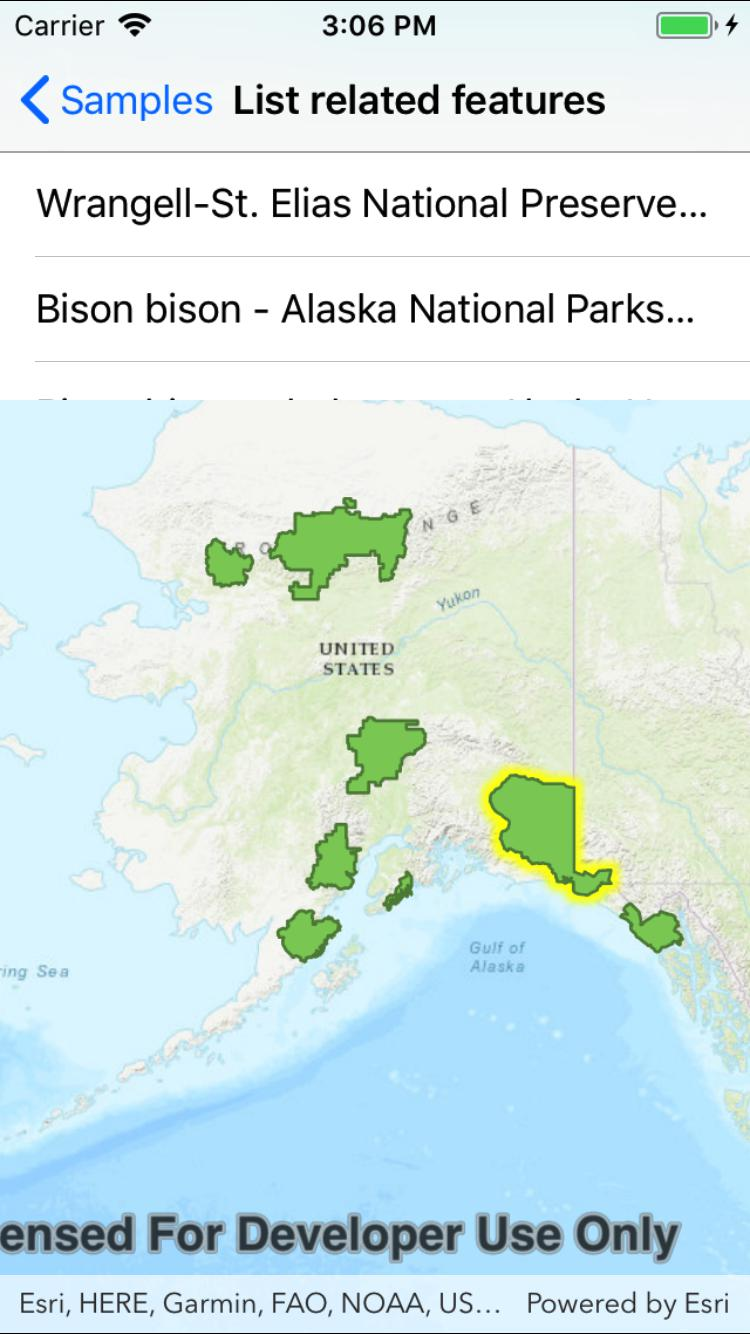
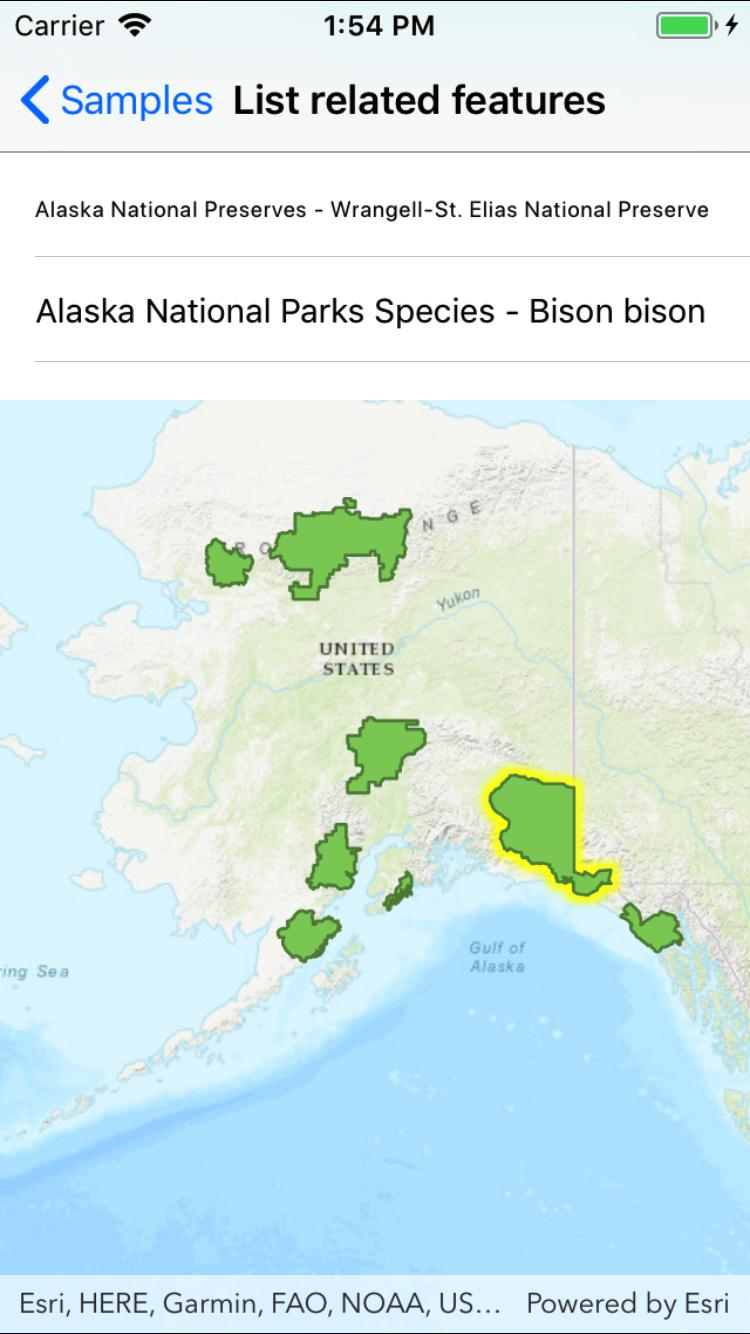
Changes per code review

diff --git a/src/iOS/Xamarin.iOS/Samples/Data/ListRelatedFeatures/ListRelatedFeatures.cs b/src/iOS/Xamarin.iOS/Samples/Data/ListRelatedFeatures/ListRelatedFeatures.cs
@@ -19,60 +19,6 @@ using UIKit;
 
 namespace ArcGISRuntimeXamarin.Samples.ListRelatedFeatures
 {
-    /// <summary>
-    /// Class defines how a UITableView renders its contents.
-    /// This implements the UI for the list of related features
-    /// </summary>
-    public class LayerListSource : UITableViewSource
-    {
-        // List of strings;
-        public List<string> _viewModelList = new List<string>();
-
-        // Used when re-using cells to ensure that a cell of the right type is used
-        private string CellId = "TableCell";
-
-        public LayerListSource(List<string> items)
-        {
-            // Set the items
-            if (items != null)
-            {
-                _viewModelList = items;
-            }
-        }
-
-        /// <summary>
-        /// This method gets a table view cell for the suggestion at the specified index
-        /// </summary>
-        public override UITableViewCell GetCell(UITableView tableView, NSIndexPath indexPath)
-        {
-            // Try to get a re-usable cell (this is for performance)
-            UITableViewCell cell = tableView.DequeueReusableCell(CellId);
-
-            // If there are no cells, create a new one
-            if (cell == null)
-            {
-                cell = new UITableViewCell(UITableViewCellStyle.Default, CellId);
-            }
-
-            // Get the specific item to display
-            string item = _viewModelList[indexPath.Row];
-
-            // Set the text on the cell
-            cell.TextLabel.Text = item;
-
-            // Return the cell
-            return cell;
-        }
-
-        /// <summary>
-        /// This method allows the UITableView to know how many rows to render
-        /// </summary>
-        public override nint RowsInSection(UITableView tableview, nint section)
-        {
-            return _viewModelList.Count;
-        }
-    }
-
     [Register("ListRelatedFeatures")]
     public class ListRelatedFeatures : UIViewController
     {
@@ -124,8 +70,10 @@ namespace ArcGISRuntimeXamarin.Samples.ListRelatedFeatures
 
         private async void MyMapViewOnGeoViewTapped(object sender, GeoViewInputEventArgs e)
         {
-            // Clear any existing feature selection
+            // Clear any existing feature selection and results list
             _myFeatureLayer.ClearSelection();
+            _myDisplayList.Source = null; 
+            _myDisplayList.ReloadData();
 
             // Identify the tapped feature
             IdentifyLayerResult results = await _myMapView.IdentifyLayerAsync(_myFeatureLayer, e.Position, 10, false);
@@ -154,7 +102,7 @@ namespace ArcGISRuntimeXamarin.Samples.ListRelatedFeatures
                 // And then for each feature in the result
                 foreach (Feature resultFeature in result)
                 {
-                    // Get a referrence to the feature's table
+                    // Get a reference to the feature's table
                     ArcGISFeatureTable relatedTable = (ArcGISFeatureTable)resultFeature.FeatureTable;
 
                     // Get the display field name - this is the name of the field that is intended for display
@@ -167,7 +115,7 @@ namespace ArcGISRuntimeXamarin.Samples.ListRelatedFeatures
                     string featureDisplayname = resultFeature.Attributes[displayFieldName].ToString();
 
                     // Create a formatted result string
-                    string formattedResult = String.Format("{1} - {0}", tableName, featureDisplayname);
+                    string formattedResult = String.Format("{0} - {1}", tableName, featureDisplayname);
 
                     // Add the result to the list
                     queryResultsForUi.Add(formattedResult);
@@ -216,6 +164,62 @@ namespace ArcGISRuntimeXamarin.Samples.ListRelatedFeatures
             _myMapView.Frame = new CoreGraphics.CGRect(0, 0, View.Bounds.Width, View.Bounds.Height);
 
             base.ViewDidLayoutSubviews();
+        }
+    }
+    /// <summary>
+    /// Class defines how a UITableView renders its contents.
+    /// This implements the UI for the list of related features
+    /// </summary>
+    public class LayerListSource : UITableViewSource
+    {
+        // List of strings;
+        public List<string> _viewModelList = new List<string>();
+
+        // Used when re-using cells to ensure that a cell of the right type is used
+        private string CellId = "TableCell";
+
+        public LayerListSource(List<string> items)
+        {
+            // Set the items
+            if (items != null)
+            {
+                _viewModelList = items;
+            }
+        }
+
+        /// <summary>
+        /// This method gets a table view cell for the suggestion at the specified index
+        /// </summary>
+        public override UITableViewCell GetCell(UITableView tableView, NSIndexPath indexPath)
+        {
+            // Try to get a re-usable cell (this is for performance)
+            UITableViewCell cell = tableView.DequeueReusableCell(CellId);
+
+            // If there are no cells, create a new one
+            if (cell == null)
+            {
+                cell = new UITableViewCell(UITableViewCellStyle.Default, CellId);
+            }
+
+            // Get the specific item to display
+            string item = _viewModelList[indexPath.Row];
+
+            // Set the text on the cell
+            cell.TextLabel.Text = item;
+            
+            // Ensure that the label fits
+            cell.TextLabel.AdjustsFontSizeToFitWidth = true;
+
+            // Return the cell
+            return cell;
+        }
+
+        /// <summary>
+        /// This method allows the UITableView to know how many rows to render
+        /// </summary>
+        public override nint RowsInSection(UITableView tableview, nint section)
+        {
+            return _viewModelList.Count;
         }
     }
 }

diff --git a/src/Forms/Shared/Samples/Data/ListRelatedFeatures/ListRelatedFeatures.xaml.cs b/src/Forms/Shared/Samples/Data/ListRelatedFeatures/ListRelatedFeatures.xaml.cs
@@ -68,8 +68,9 @@ namespace ArcGISRuntimeXamarin.Samples.ListRelatedFeatures
         }
         private async void MyMapViewOnGeoViewTapped(object sender, GeoViewInputEventArgs e)
         {
-            // Clear any existing feature selection
+            // Clear any existing feature selection and results list
             _myFeatureLayer.ClearSelection();
+            MyResultsView.ItemsSource = null;
 
             // Identify the tapped feature
             IdentifyLayerResult results = await MyMapView.IdentifyLayerAsync(_myFeatureLayer, e.Position, 10, false);
@@ -98,7 +99,7 @@ namespace ArcGISRuntimeXamarin.Samples.ListRelatedFeatures
                 // And then for each feature in the result
                 foreach (Feature resultFeature in result)
                 {
-                    // Get a referrence to the feature's table
+                    // Get a reference to the feature's table
                     ArcGISFeatureTable relatedTable = (ArcGISFeatureTable)resultFeature.FeatureTable;
 
                     // Get the display field name - this is the name of the field that is intended for display

diff --git a/src/Android/Xamarin.Android/Samples/Data/ListRelatedFeatures/ListRelatedFeatures.cs b/src/Android/Xamarin.Android/Samples/Data/ListRelatedFeatures/ListRelatedFeatures.cs
@@ -74,8 +74,9 @@ namespace ArcGISRuntimeXamarin.Samples.ListRelatedFeatures
 
         private async void MyMapViewOnGeoViewTapped(object sender, GeoViewInputEventArgs e)
         {
-            // Clear any existing feature selection
+            // Clear any existing feature selection and results list
             _myFeatureLayer.ClearSelection();
+            _myDisplayList.Adapter = null;
 
             // Identify the tapped feature
             IdentifyLayerResult results = await _myMapView.IdentifyLayerAsync(_myFeatureLayer, e.Position, 10, false);
@@ -104,7 +105,7 @@ namespace ArcGISRuntimeXamarin.Samples.ListRelatedFeatures
                 // And then for each feature in the result
                 foreach (Feature resultFeature in result)
                 {
-                    // Get a referrence to the feature's table
+                    // Get a reference to the feature's table
                     ArcGISFeatureTable relatedTable = (ArcGISFeatureTable)resultFeature.FeatureTable;
 
                     // Get the display field name - this is the name of the field that is intended for display

diff --git a/src/WPF/ArcGISRuntime.WPF.Samples/Samples/Data/ListRelatedFeatures/ListRelatedFeatures.xaml.cs b/src/WPF/ArcGISRuntime.WPF.Samples/Samples/Data/ListRelatedFeatures/ListRelatedFeatures.xaml.cs
@@ -62,8 +62,9 @@ namespace ArcGISRuntime.WPF.Samples.ListRelatedFeatures
 
         private async void MyMapViewOnGeoViewTapped(object sender, GeoViewInputEventArgs e)
         {
-            // Clear any existing feature selection
+            // Clear any existing feature selection and results list
             _myFeatureLayer.ClearSelection();
+            MyResultsView.ItemsSource = null; 
 
             // Identify the tapped feature
             IdentifyLayerResult results = await MyMapView.IdentifyLayerAsync(_myFeatureLayer, e.Position, 10, false);
@@ -92,7 +93,7 @@ namespace ArcGISRuntime.WPF.Samples.ListRelatedFeatures
                 // And then for each feature in the result
                 foreach (Feature resultFeature in result)
                 {
-                    // Get a referrence to the feature's table
+                    // Get a reference to the feature's table
                     ArcGISFeatureTable relatedTable = (ArcGISFeatureTable)resultFeature.FeatureTable;
 
                     // Get the display field name - this is the name of the field that is intended for display

diff --git a/src/UWP/ArcGISRuntime.UWP.Samples/Samples/Data/ListRelatedFeatures/ListRelatedFeatures.xaml.cs b/src/UWP/ArcGISRuntime.UWP.Samples/Samples/Data/ListRelatedFeatures/ListRelatedFeatures.xaml.cs
@@ -62,8 +62,9 @@ namespace ArcGISRuntime.UWP.Samples.ListRelatedFeatures
 
         private async void MyMapViewOnGeoViewTapped(object sender, GeoViewInputEventArgs e)
         {
-            // Clear any existing feature selection
+            // Clear any existing feature selection and results list
             _myFeatureLayer.ClearSelection();
+            MyResultsView.ItemsSource = null;
 
             // Identify the tapped feature
             IdentifyLayerResult results = await MyMapView.IdentifyLayerAsync(_myFeatureLayer, e.Position, 10, false);
@@ -92,7 +93,7 @@ namespace ArcGISRuntime.UWP.Samples.ListRelatedFeatures
                 // And then for each feature in the result
                 foreach (Feature resultFeature in result)
                 {
-                    // Get a referrence to the feature's table
+                    // Get a reference to the feature's table
                     ArcGISFeatureTable relatedTable = (ArcGISFeatureTable)resultFeature.FeatureTable;
 
                     // Get the display field name - this is the name of the field that is intended for display
